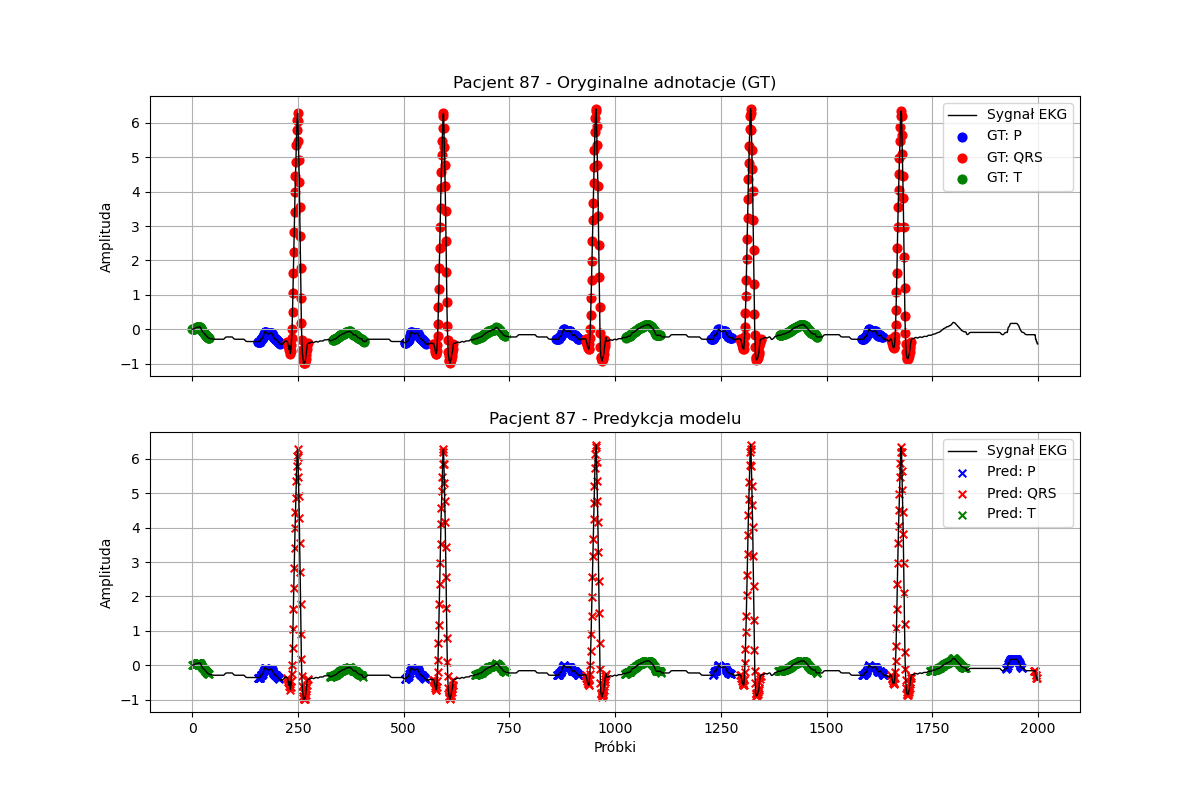
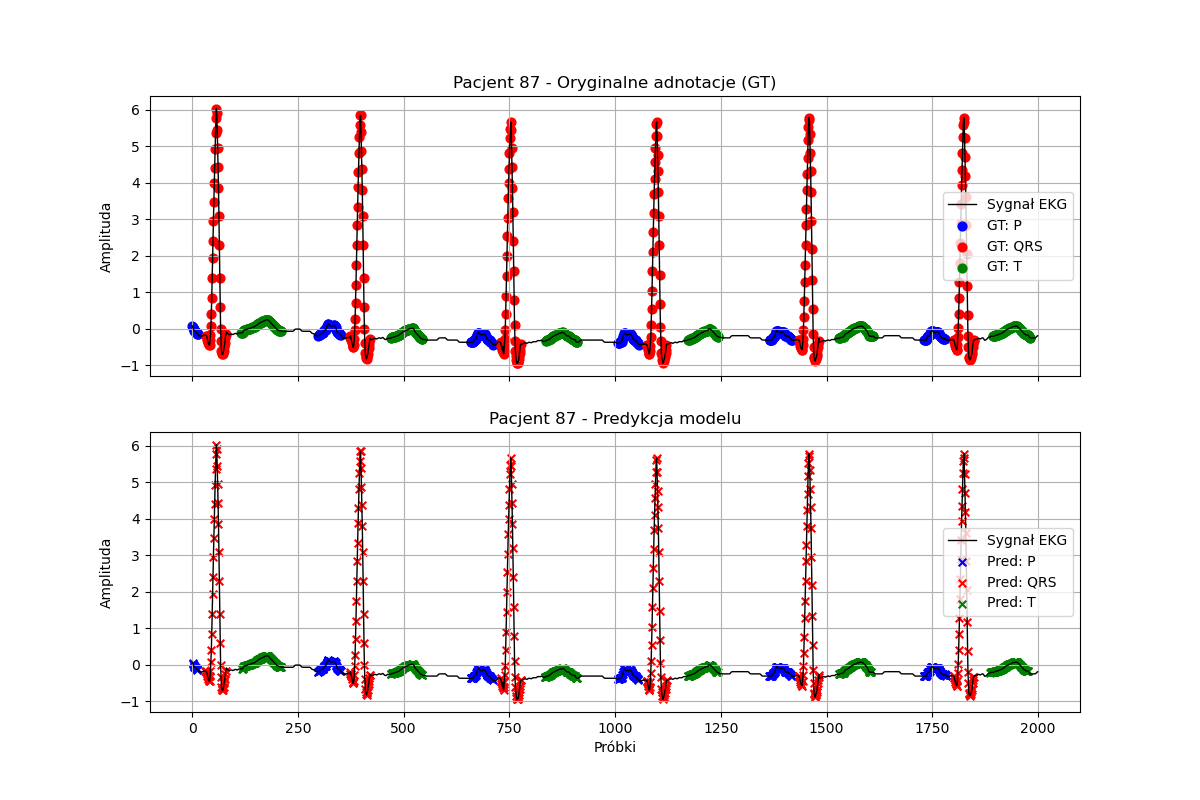
v7 DONE ( BAD_PATIENTS_II ) v3

Changed region(s): [[0.1542, 0.125, 0.8942, 0.4688], [0.1542, 0.5312, 0.8942, 0.875]]

diff --git a/main.py b/main.py
@@ -586,5 +586,5 @@ def run_model_inference():
 
 # Uruchomienie inferencji
 if __name__ == "__main__":
-    main()
+    #main()
     run_model_inference()
